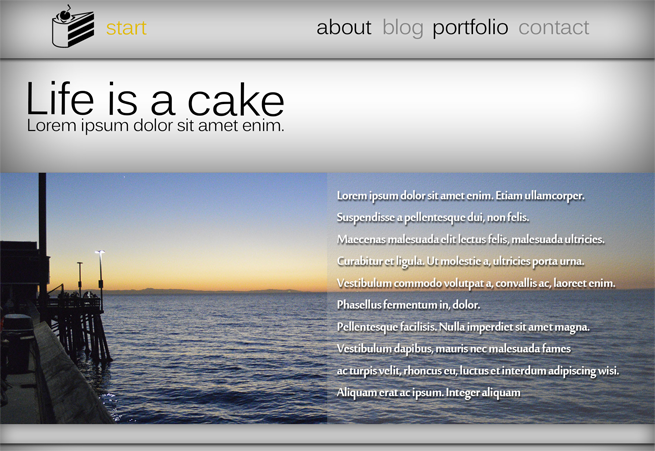
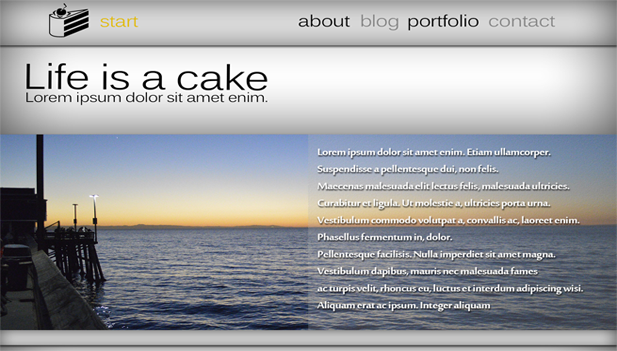
Task #285065 Poprawki.

Changed region(s): [[0.5235, 0.057, 0.5543, 0.0855], [0.1848, 0.057, 0.2156, 0.0855]]

diff --git a/css/bootstrap.css b/css/bootstrap.css
@@ -6280,7 +6280,7 @@ a.badge:focus {
 .onasb {
     z-index: 9989;
     height: 520px;
-    margin-left: -210px;
+    margin-left: -260px;
     width: 140% !important;
 }
   
@@ -6329,7 +6329,7 @@ a.badge:focus {
     height: 520px;
     background-color: rgba(54, 212, 186, 0.5);
     position: absolute;
-    margin-left: 590px;
+    margin-left: 34%;
 }
 
 
